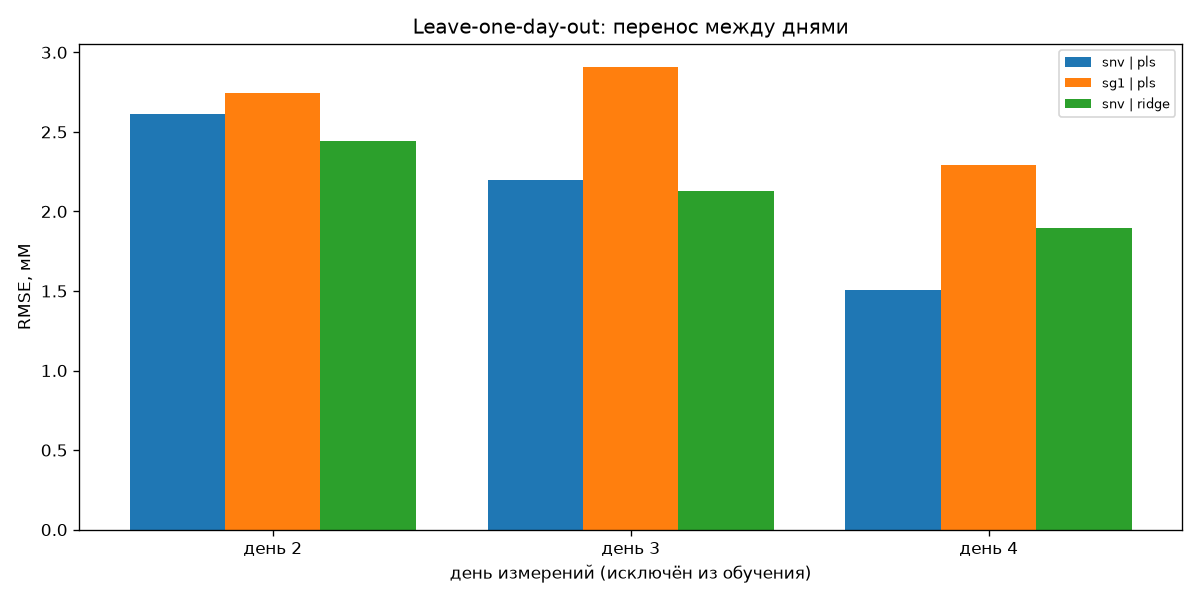
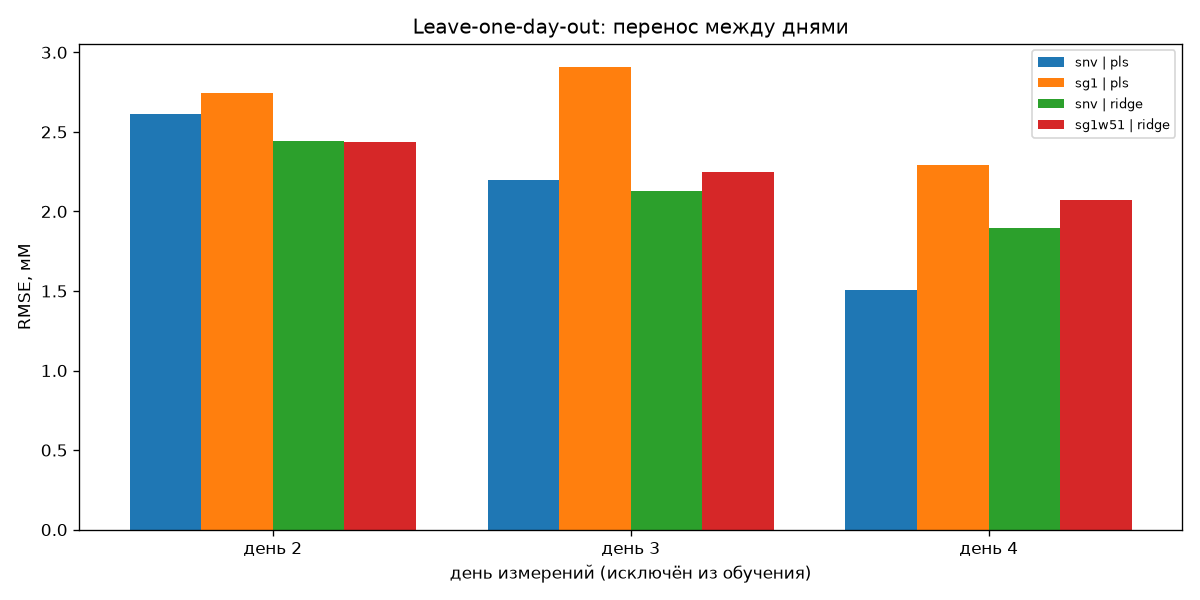
docs: ridge + SG1 (окно 51) подтверждён на 5 seed и в спецпроверках, OSC без выигрыша

diff --git a/reports/SUMMARY.md b/reports/SUMMARY.md
@@ -23,6 +23,7 @@
 
 | Пайплайн | RMSE CV, мМ | мг/дл | Экстраполяция на 50 мМ*, мМ |
 |---|---|---|---|
+| **ridge + SG1, окно 51 точка (25 нм)** | 2,02 ± 0,03 (±1,00) | 36 | **2,87 (смещение ≈ 0)** |
 | ridge + MSC | 2,04 ± 0,02 (±0,96) | 37 | 3,28 |
 | ridge + SNV | 2,05 ± 0,04 (±0,95) | 37 | 3,30 |
 | **PLS + SNV** (бейзлайн) | 2,08 ± 0,07 (±0,93) | 38 | 3,25 |
@@ -32,7 +33,7 @@
 | PLS + SG1 | 2,36 ± 0,05 | 43 | 3,32 |
 | SVR (лучший, SNV+SG1) | 3,38 | 61 | 9,7 |
 | GBM (лучший, SNV) | 5,45 | 98 | 12,7 (смещение −12,3) |
-| ridge + SG1, окно 51 точка (25 нм) | 2,00 (±1,00 по фолдам; 1 seed) | 36 | 2,87 |
+| PLS + SNV + OSC (1–3 направления) | 1,98–2,00 (1 seed) | 36 | — |
 | PLS/ridge + SG2, окно 51–81 точка | 2,22–2,51 (1 seed) | 40–45 | 3,2–3,5 |
 | любая модель + SG2, окно 11 точек (5 нм) | 5,0–11,5 | 90–207 | 7–26 |
 
@@ -42,16 +43,17 @@
 
 | Пайплайн | Все 120 спектров | Без 6 подозрительных** |
 |---|---|---|
-| ridge + SNV | 5,76 мМ | **1,03 мМ (19 мг/дл), R² 0,995** |
+| **ridge + SG1, окно 51** | 5,71 мМ | **1,02 мМ (18 мг/дл), смещение 0,01, R² 0,995** |
+| ridge + SNV | 5,76 | 1,03 (19 мг/дл) |
 | PLS + SNV | 5,73 | 1,09 (20 мг/дл) |
 | PLS + SG1 | 5,76 | 1,38 (25 мг/дл) |
 
 \*\* Два валидационных состава размечены как 50 мМ, но все модели дают для них около 25 мМ, ровно половину. Похоже на ошибку разведения или метки в источнике. Метки не правили, результаты приводим в обоих вариантах. **Это стоит сообщить авторам датасета.**
 
 **Проверки на устойчивость** (валидация без подозрительных образцов):
-- **Интерферент вне калибровки.** Модель, не видевшая лактат, сдвигает глюкозу на **+0,34…+0,42 мМ на 1 мМ лактата** (RMSEP 4,8–5,9 мМ); в статье, по аннотации, +0,46. Этанол: −0,14…−0,16 мМ/мМ для SNV, но **+0,05 для SG1**, то есть производная почти снимает его влияние. Если интерферент есть в калибровке, сдвиг около 0 (|наклон| < 0,02).
-- **Другой день** (обучение на двух днях, тест на третьем, составы не пересекаются): RMSE 1,5–2,9 мМ, лучше всех ridge/PLS + SNV.
-- **Кривая обучения** (PLS + SNV, RMSEP валидации): 6 составов — 2,4 мМ, 10 — 1,8, 20 — 1,5, 30 — 1,3, 56 — 1,15. Основной выигрыш набирается к 20–30 составам.
+- **Интерферент вне калибровки.** Модель, не видевшая лактат, сдвигает глюкозу на **+0,34…+0,42 мМ на 1 мМ лактата** (RMSEP 4,8–5,9 мМ); в статье, по аннотации, +0,46. Этанол: −0,14…−0,16 мМ/мМ для SNV, но **+0,05…+0,06 для SG1**, то есть производная почти снимает его влияние: без этанола в калибровке RMSEP ridge + SG1 (окно 51) — 2,8 мМ против 5,6 у ridge + SNV. От лактата производная не спасает (+0,40). Если интерферент есть в калибровке, сдвиг около 0 (|наклон| < 0,02).
+- **Другой день** (обучение на двух днях, тест на третьем, составы не пересекаются): RMSE 1,5–2,9 мМ; ridge + SNV и ridge + SG1 (окно 51) — 1,9–2,4, PLS + SG1 (окно 11) — хуже всех.
+- **Кривая обучения** (PLS + SNV, RMSEP валидации): 6 составов — 2,4 мМ, 10 — 1,8, 20 — 1,5, 30 — 1,3, 56 — 1,15. Основной выигрыш набирается к 20–30 составам. У ridge + SG1 (окно 51) кривая чуть ниже: 20 — 1,35, 30 — 1,19, 56 — 1,02.
 
 ## Выводы
 1. **Нелинейные модели не нужны.** Все линейные варианты (PLS, ridge, PCR, GPR) с SNV/MSC/SG1 укладываются в 2,0–2,4 мМ. Различия между ними (около 0,1 мМ) на порядок меньше разброса по фолдам (около 0,9 мМ) и по сути равны разбросу между seed. SVR и GBM хуже в 1,6–2,7 раза. GBM вообще не экстраполирует: на 50 мМ занижает на 12 мМ, потому что деревья упираются в максимум train.
@@ -62,9 +64,10 @@
 
    Поэтому без группового сплита оценки получились бы сильно оптимистичными.
 3. **Интерференты нужно включать в калибровку.** Неучтённый лактат даёт систематическую ошибку порядка 0,4 мМ глюкозы на 1 мМ лактата.
+4. **Удаление мешающих направлений (OSC) ничего не дало** (1,98 против 1,995 мМ): PLS и так игнорирует вариацию, не связанную с концентрацией. Остаток ≈ 2 мМ на CV — это, по всей видимости, точность приготовления растворов и шум прибора, а не спектральные помехи.
 
 ## Рекомендация для стенда
-- **Модель:** PLS (бейзлайн) или ridge на SNV/MSC. Если в образцах ожидается переменный этанол или похожий фон — ridge на SG1 с окном ~25 нм (51 точка при шаге 0,5 нм): по точности не хуже SNV, смещение при экстраполяции около 0. Окно SG задавать в нм, а не в точках: узкое окно на производных усиливает шум. Число компонент и регуляризацию подбирать групповой CV.
+- **Модель:** ridge на первой производной SG с окном ~25 нм (51 точка при шаге 0,5 нм) — по точности наравне с лучшими (2,02 ± 0,03 мМ на 5 seed, 1,02 мМ на внешней валидации), при этом наименьшее смещение при экстраполяции и устойчивость к неучтённому этанолу. Бейзлайн для сравнения — PLS + SNV; разница между ними в пределах шума, так что PLS + SNV — тоже рабочий выбор. Окно SG задавать в нм, а не в точках: узкое окно на производных усиливает шум. Число компонент и регуляризацию подбирать групповой CV.
 - **Спектральный диапазон:** исключить зоны насыщения воды и шумные края. Для своего прибора окна подбирать по графику шума, а не переносить из NTNU.
 - **План калибровки:** не меньше 20–30 независимо приготовленных составов, 2–3 повтора каждого. Концентрации интерферентов варьировать независимо от глюкозы. Захватить весь рабочий диапазон с запасом: за пределами калибровки ошибка растёт в 1,5 раза даже у линейных моделей.
 - **Контроль условий:** термостатировать кювету (или записывать температуру и включать её в калибровку), фиксировать кювету и её положение, снимать измерения в разные дни. Проверять модель на отдельном дне и на отдельных приготовлениях.
@@ -74,8 +77,9 @@
 - Один датасет: прибор лабораторного класса, буфер PBS, без белков и рассеяния (не кровь и не ткань). Переносимость на наш стенд не проверена, параметры стенда пока неизвестны.
 - Длина кюветы и протокол смешивания в NTNU не указаны, статья прочитана только по аннотации.
 - RMSE CV на калибровке (около 2,0 мМ) выше, чем на валидации (около 1,05 мМ). Калибровка содержит 50 мМ и выбросные блоки, а у валидации из-за исключённых образцов верх диапазона уже. Сравнивать эти числа напрямую нельзя.
-- Окна SG (21–81 точка) перебраны только для PLS и ridge на одном seed. Узкое окно (11 точек = 5 нм) губит вторую производную (5–11 мМ); с окном 51–81 точка SG2 выходит на 2,2–2,5 мМ, но не лучше SNV. Ridge + SG1 с окном 51 даёт 2,00 мМ и наименьшее смещение при экстраполяции (≈ 0) — в пределах разброса лидеров.
-- 1D-CNN не пробовали: при 56 составах это нецелесообразно.
+- Окна SG (21–81 точка) перебраны для PLS и ridge на одном seed; лучший (ridge + SG1, окно 51) затем подтверждён на 5 seed и во всех спецпроверках. Выбор окна по той же CV немного оптимистичен — но выигрыш и так в пределах шума, а преимущество на этаноле и экстраполяции — качественное. Узкое окно (11 точек = 5 нм) губит вторую производную (5–11 мМ); с окном 51–81 SG2 — 2,2–2,5 мМ.
+- OSC проверен в упрощённом варианте (направления X, ортогональные y). EPO по различиям между повторами (целенаправленно против температуры) не пробовали.
+- 1D-CNN и TabPFN пока не пробовали (следующий шаг, на CPU); ожидание — не лучше линейных моделей.
 
 ## Воспроизведение
 ```bash
@@ -86,7 +90,9 @@ uv run python -u scripts/run_experiment.py --loader ntnu --out reports/ntnu_line
 for s in 1 2 3 4; do uv run python -u scripts/run_experiment.py --loader ntnu --out reports/ntnu_seed$s --seed $s --models pls ridge gpr --preps raw snv msc sg1 --no-extrapolation --loader-kwargs "$W"; done
 uv run python -u scripts/run_experiment.py --loader ntnu --out reports/ntnu_gbm --models gbm --preps raw snv sg1 --loader-kwargs "$W"   # ~50 мин на 2 ядрах
 uv run python -u scripts/run_experiment.py --loader ntnu --out reports/ntnu_sgwin --models pls ridge --preps sg1w21 sg1w31 sg1w51 sg2w21 sg2w31 sg2w51 sg2w81 snv+sg1w31 snv+sg2w51 --loader-kwargs "$W"
-uv run python scripts/run_ntnu_checks.py                    # интерференты, другой день, кривая обучения
+for s in 1 2 3 4; do uv run python -u scripts/run_experiment.py --loader ntnu --out reports/ntnu_sgw_seed$s --seed $s --models ridge pls --preps sg1w51 snv+sg1w31 --no-extrapolation --loader-kwargs "$W"; done
+uv run python scripts/run_experiment.py --loader ntnu --out reports/ntnu_osc --models pls ridge --preps snv snv+osc1 snv+osc2 snv+osc3 --no-extrapolation --loader-kwargs "$W"
+uv run python scripts/run_ntnu_checks.py --pipes pls:snv pls:sg1 ridge:snv ridge:sg1w51   # интерференты, другой день, кривая обучения
 uv run python scripts/check_mendeley_raman.py               # проверка второго датасета
 ```
 Дашборды: `reports/ntnu_*_dashboard.html` (в git не хранятся, создаются командами выше).
